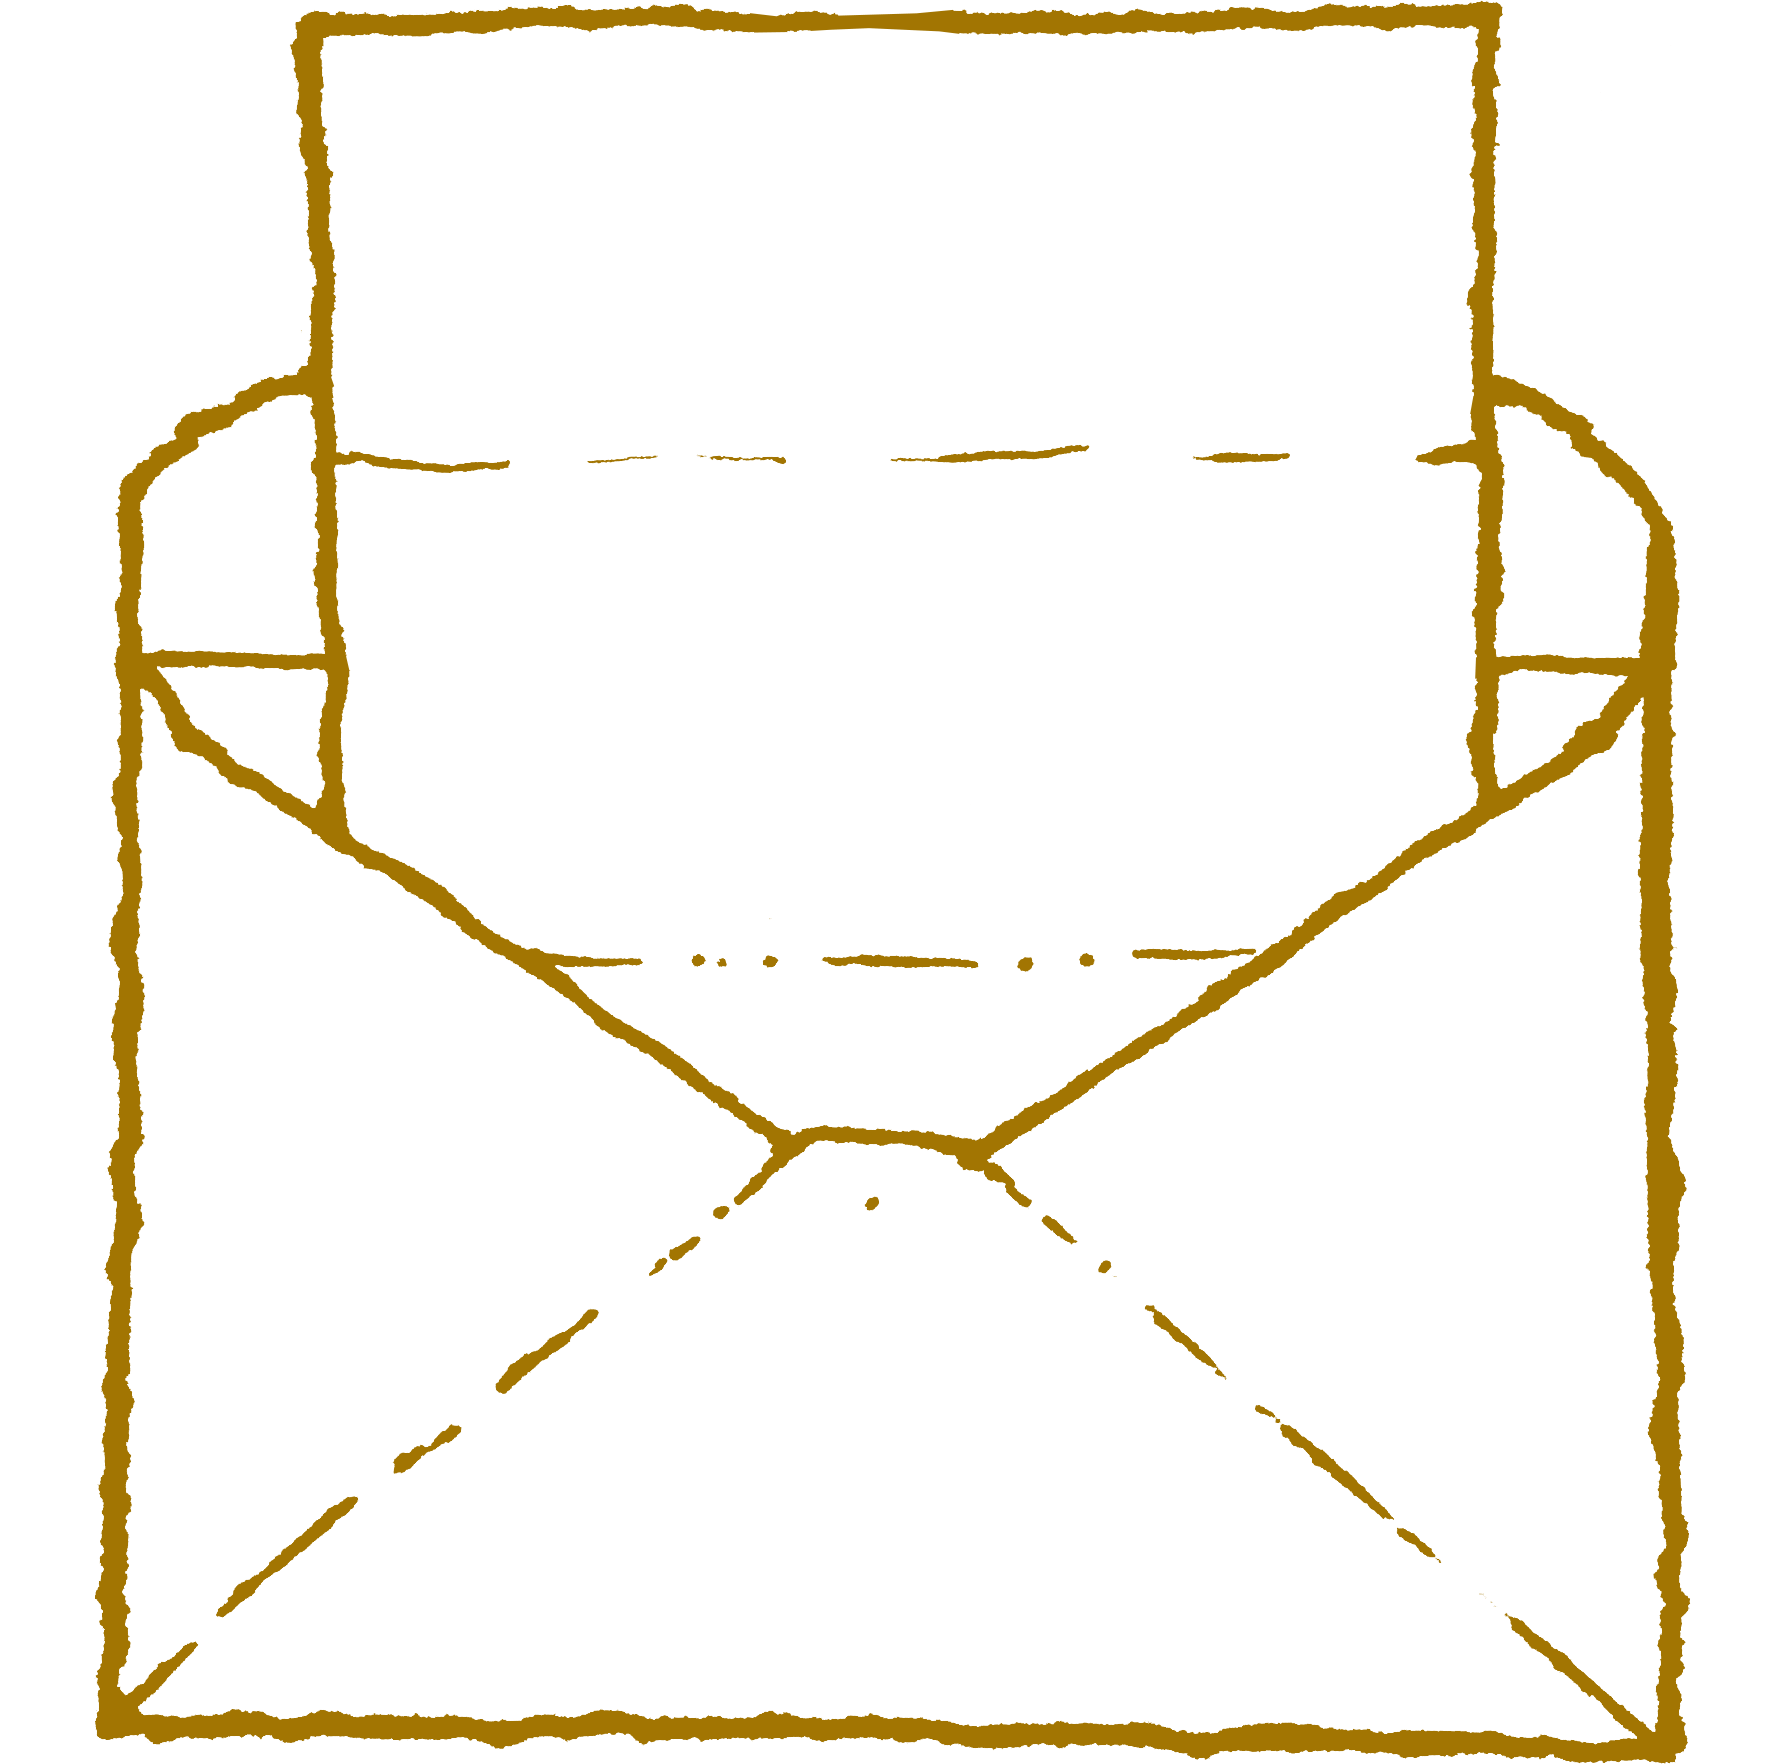
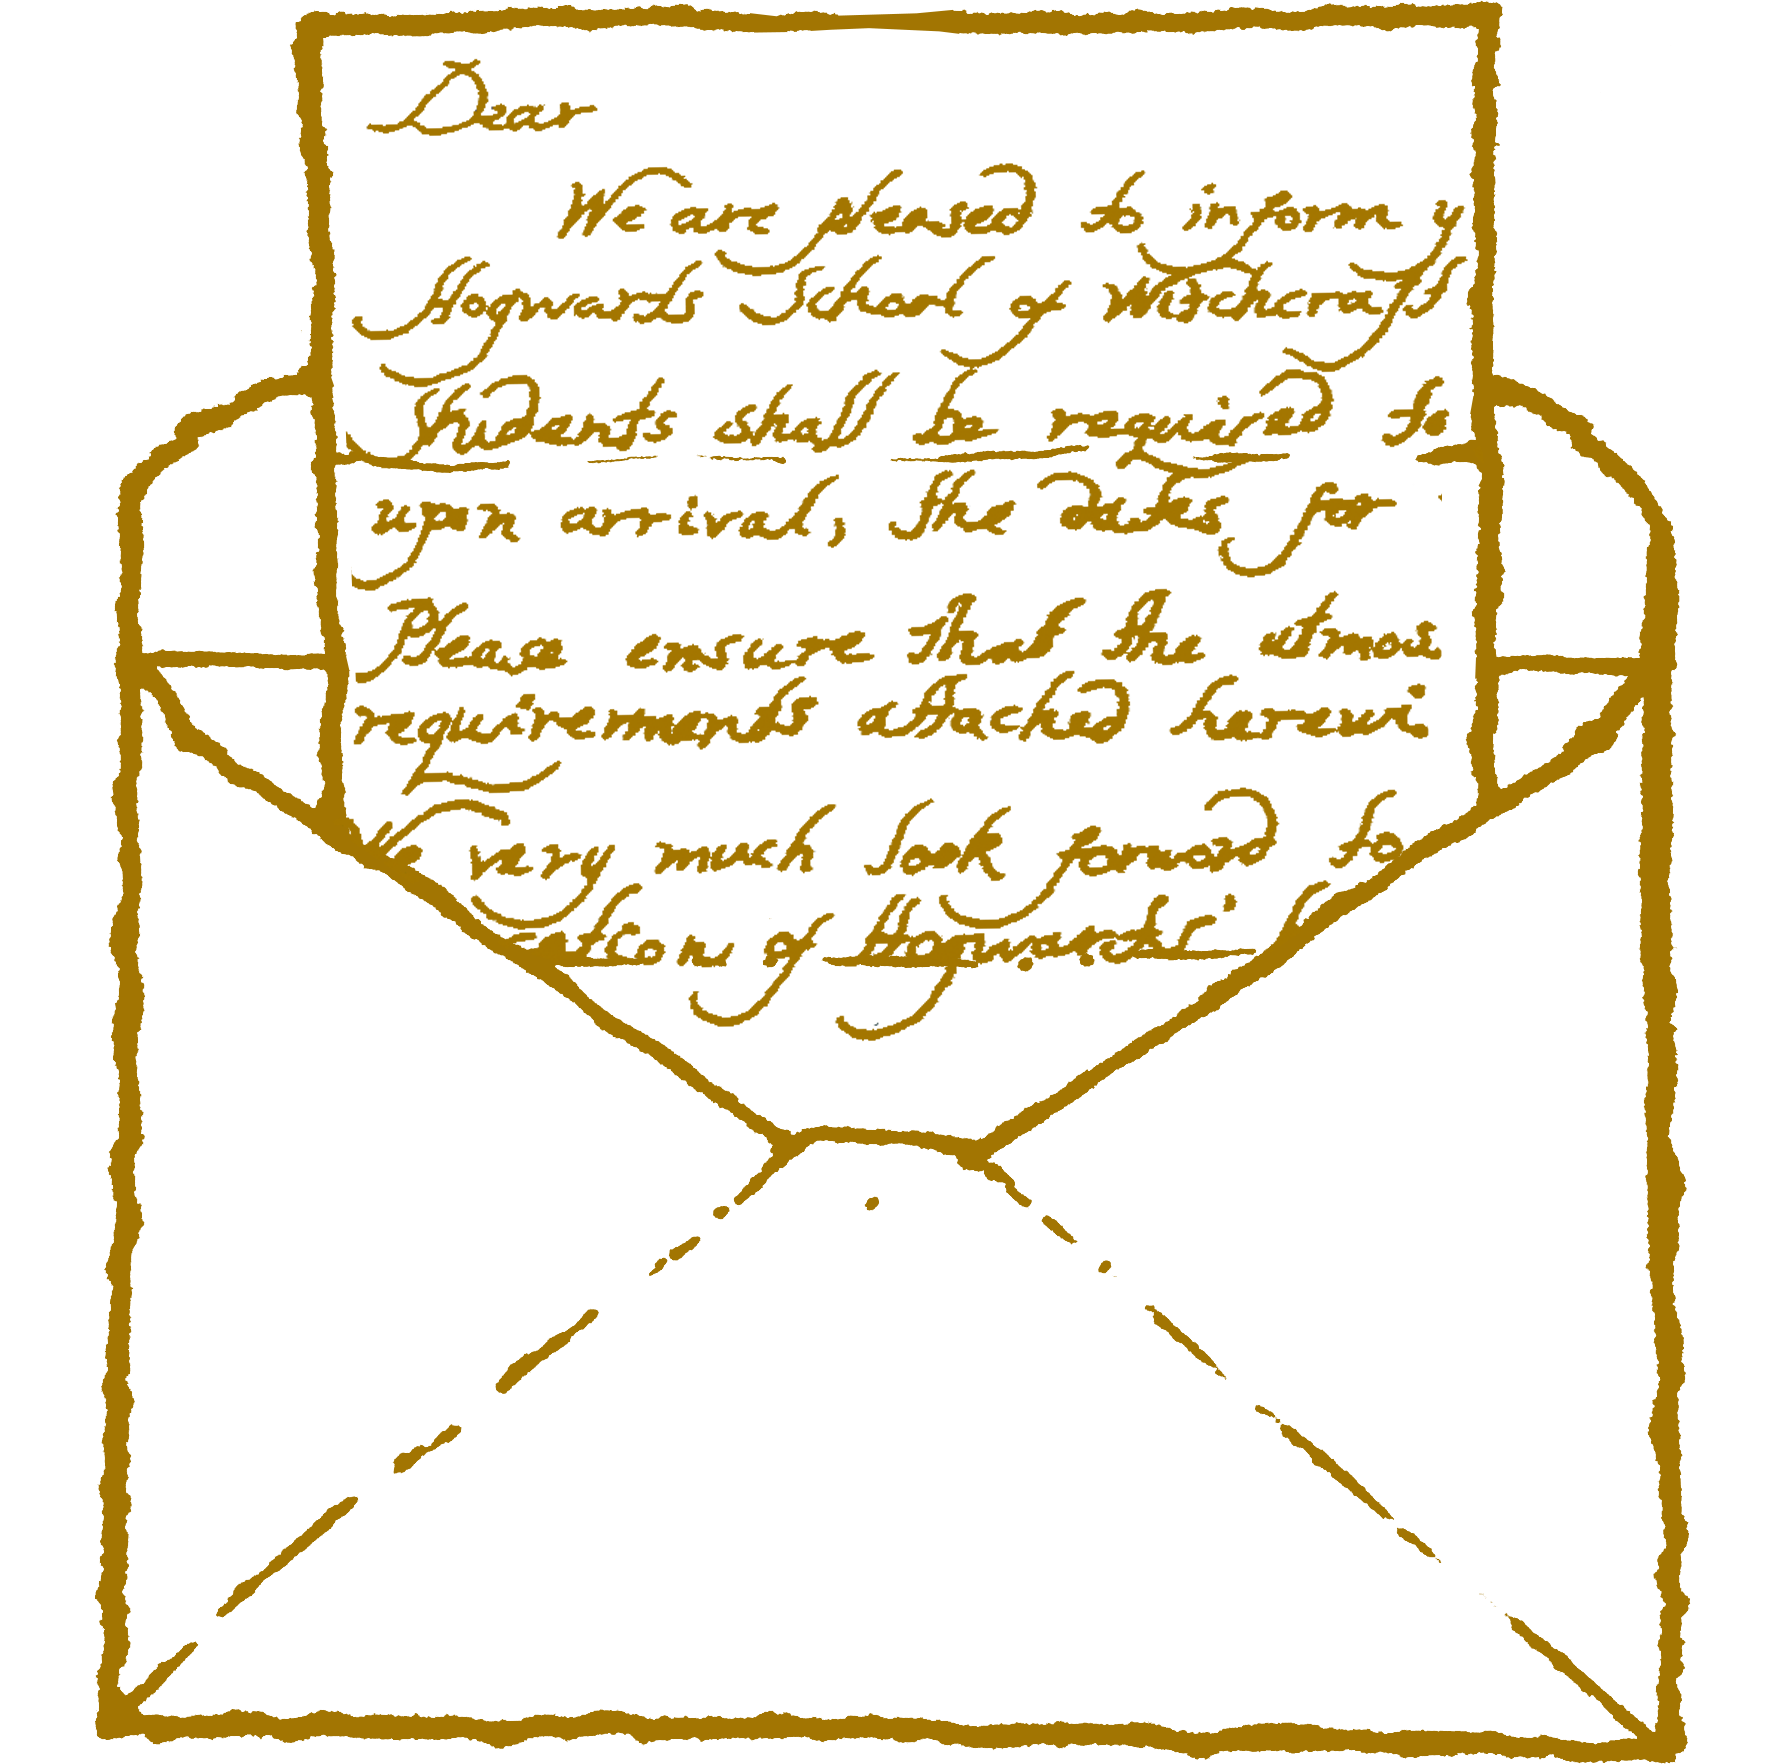
working on animations

diff --git a/angular/css/app.css b/angular/css/app.css
@@ -8,7 +8,12 @@
 
 * {
   font-family: 'Averia Serif Libre', cursive;
+  font-weight: 200;
   color: #a27502;
+}
+span {
+  margin: auto;
+  font-size: 4em;
 }
 .wholePageContainer {
   /*background-image: #F8F8F8;*/
@@ -20,7 +25,21 @@
   width: 100vw;
   display: flex;
 }
+.surveyPage {
+  display: flex;
+  flex-direction: column;
+  border: 1px solid #735c34;
+  width: 90vw;
+  height: 70vh;
+  overflow: hidden;
+  animation: fadeIn ease-in 1;
+  animation-fill-mode:forwards;
+  animation-duration:1s;
+}
 .fbButton {
+  animation: fadeIn ease-in 1;
+  animation-fill-mode: forwards;
+  animation-duration: 10s;
   margin: auto;
   z-index: 3;
   margin-bottom: 5vh;
@@ -47,21 +66,66 @@
   width: 100vw;
   height: 100vh;
 }
+.getStarted:hover {
+  cursor: pointer;
+}
+.decision {
+  margin: auto;
+  margin-top: 25vh;
+}
+.decision:hover {
+  cursor: pointer;
+}
+.answers.last-of-type {
+  background-color: red;
+}
+.paper {
+  margin: auto;
+  margin-left: 10vw;
+  width: 20vw;
+  height:auto;
+}
+.houseCrest {
+  margin: auto;
+  width: auto;
+  height: 150px;
+}
+.hatImg {
+  opacity: .15;
+  z-index: -1;
+  width: 30vw;
+  position: absolute;
+  height: auto;
+  left: 50%;
+  margin-left: -17vw;
+  top: 50%;
+  margin-top: -15vw;
+}
+.letterText {
+  text-align: left;
+  font-size: 1em;
+  animation: fadeIn ease-in 1;
+  animation-fill-mode:forwards;
+  animation-duration:5s;
+}
 .welcomeMessage {
   opacity: 0;
-  /*animation-fill-mode:forwards;
-  animation-duration: 4s;
-  animation: fadeIn ease-in 1;
-  animation-delay: 1s;*/
   text-align: center;
   z-index: 1;
-  /*color: #a27502;*/
-  color: #F8F8F8;
   margin: auto;
   margin-top: 7vh;
-  letter-spacing: 4px;
+  letter-spacing: 7px;
   margin-bottom: 10vh;
   font-family: 'Averia Serif Libre', cursive;
+}
+.closed:hover + .welcomeMessage {
+  animation: fadeIn ease-in 1;
+  animation-duration: 3s;
+  animation-fill-mode: both;
+  color: #49443b;
+}
+fbButton {
+  border: 1px solid #735c34;
 }
 .welcomeLetterDiv {
   display: flex;
@@ -70,14 +134,25 @@
   width: 100vw;
   height: 100%;
 }
-.closed:hover + .welcomeMessage {
-  animation: fadeIn ease-in 1;
-  animation-duration: 3s;
-  animation-fill-mode: forwards;
-  color: #a27502;
+.mainHeader {
+  color: #49443b;
 }
-.welcomeMessage:hover {
+.open {
+  animation: fadeIn ease-in 1;
+  position: absolute;
+  width: 33vw;
+  height: auto;
+  left: 50%;
+  margin-left: -16.5vw;
+  top: 50%;
+  margin-top: -16.5vw;
   cursor: pointer;
+  /*animation: engorgio ease-in 1;*/
+  animation-fill-mode:forwards;
+  animation-duration:.8s;
+}
+h3 {
+  color: #49443b;
 }
 .splashContainer {
   display: flex;
@@ -88,34 +163,18 @@
 }
 .closed {
   position: absolute;
-  width: 50vw;
+  width: 30vw;
   height: auto;
   left: 50%;
-  margin-left: -25vw;
+  margin-left: -15vw;
   top: 50%;
   transition: all 1s ease-in-out;
-  margin-top: -25vw;
-}
-.open {
-  position: absolute;
-  width: 55vw;
-  height: auto;
-  left: 50%;
-  margin-left: -27.5vw;
-  top: 50%;
-  margin-top: -27.5vw;
+  margin-top: -15vw;
 }
 .fadeIn {
   animation: fadeIn ease-in 1;
   animation-fill-mode:forwards;
   animation-duration:2s;
-}
-.open {
-  cursor: pointer;
-  animation: engorgio ease-in 1;
-  /*animation: fadeIn ease-in 1;*/
-  animation-fill-mode:forwards;
-  animation-duration:.8s;
 }
 .closed:hover {
   cursor: pointer;
@@ -123,7 +182,10 @@
   animation: wingardiumLeviosa 1.7s infinite;
 }
 .sortingResults {
-  border: 1px solid black;
+  height: 100vh;
+  margin: auto;
+  display: flex;
+  flex-direction: column;
 }
 h3 {
   text-align: center;
@@ -157,14 +219,4 @@ p:hover {
 }*/
 .ng-scope {
   margin: auto;
-}
-.surveyPage {
-  /*background-color: white;*/
-  border: 2px solid #434343;
-  width: 90vw;
-  height: 70vh;
-  overflow: hidden;
-  animation: fadeIn ease-in 1;
-  animation-fill-mode:forwards;
-  animation-duration:1s;
 }

diff --git a/angular/partials/splash.html b/angular/partials/splash.html
@@ -1,12 +1,20 @@
 <div ng-controller='splashController'>
   <div class='splashContainer fadeIn'>
     <div class='envelopes'>
-      <img class='closed' src="../images/letterClosed.png">
+      <img class='closed' src="../images/letterClosed.png" ng-click='loginAnimation()'>
       <h2 class='welcomeMessage'>The Wizarding World awaits you...</h2>
       <div class='welcomeLetterDiv fadeIn' ng-show='openEnvelope'>
-        <a href="/#/1"><img class='open' src="../images/letterOpen.png"></a>
-        <p>Welcome to Hogwarts, {{user}}</p>
-        <a href='/#/1'>Now we need to sort you into your house...</a>
+        <div class='paper'>
+          <a href="/#/1"><img class='open' src="../images/letterOpen.png"></a>
+          <p class='letterText mainHeader'>Hogwarts School of Witchcraft and Wizardry</p>
+          <p class='letterText'>Headmaster: Albus Dumbledore (Order of Merlin, First Class, Grand Sorc., Chf. Warlock, Supreme Mugwump, International Confed. of Wizards)</p>
+          <p class='letterText'>Dear {{user}},</p>
+          <p class='letterText'>We are pleased to inform you that you have been accepted at Hogwarts School of Witchcraft and Wizardry. We await your owl by no later than July 31.
+          Yours sincerely,</p>
+          <p class='letterText'>Minerva McGonagall</p>
+          <p class='letterText'>Deputy Headmistress</p>
+          <a href="/#/1"><p class='letterText getStarted mainHeader'>Get started...</p></a>
+        </div>
       </div>
       <button class='fbButton' ng-click="authenticate('facebook'); loginAnimation()" ng-show='fbShow'>Sign in with Facebook</button>
     </div>

diff --git a/angular/partials/survey1.html b/angular/partials/survey1.html
@@ -1,16 +1,22 @@
-<div class='surveyPage' ng-controller='surveyController'>
+  <div class='surveyPage' ng-controller='surveyController'>
   <div class='theQuiz' ng-repeat='question in survey'>
-      <h3  class='{{question.questionId}}' for="surveyOptions">{{question.question}}</h3>
+      <h3  class='{{question.questionId}} question' for="surveyOptions">{{question.question}}</h3>
+      <hr class='{{question.questionId}}'>
       <div class='{{question.questionId}}' ng-repeat='answer in question.answers' ng-click='scrollAnswers(question.questionId)'>
         <p class='answers' ng-click='answerSelect(answer)'>{{answer.option}}</p>
       </div>
   </div>
-</div>
-<button type="button" ng-click="postSurveyResults(getSorted()); getDomHouse(getSorted())">Get Sorted!!!</button>
+  <div ng-show='sortingButton' class='decision' ng-click="postSurveyResults(getSorted()); sortingResultsShow(); getDomHouse(getSorted())">
+    <img class='hatImg' src="../images/sortingHat.png">
+    <p>The Sorting Hat has decided...</p>
+  </div>
+  <div class='sortingResults' ng-show='sortingResults'>
+    <span>{{results.name}}</span>
+    <p>{{results.quote}}</p>
+    <p>Traits:</p>
+    <p>{{results.traits}}</p>
+    <img src="{{results.imageUrl}}" class='houseCrest'>
+    <button class='fbButton' type="button" ng-click="facebookShareFunc()">Share on facebook</button>
+  </div>
 
-<div class='sortingResults'>
-  <p>{{results.name}}</p>
-  <p>{{results.quote}}</p>
-  <img src="{{results.imageUrl}}" style='width: 100px; height: auto'>
-  <button type="button" ng-click="facebookShareFunc()">Share!!!!!</button>
 </div>

diff --git a/angular/js/controllers/controllers.js b/angular/js/controllers/controllers.js
@@ -11,7 +11,8 @@ $scope.loginAnimation = function() {
   $scope.openEnvelope = true;
   $scope.fbShow = false;
 
-  $(".closed").fadeOut();
+  $(".closed").fadeOut('slow');
+  $(".welcomeMessage").fadeOut('slow');
   survey.sortingHat.user_name = results.data.body.message.firstname;
   survey.sortingHat.zfbId = results.data.body.message.fb_id;
 }
@@ -58,6 +59,7 @@ apicalls.getAll().then(function(results){
 //This is our controller for our survey
 app.controller('surveyController', ['$scope', 'survey', '$location', '$auth', 'apicalls', '$http', function($scope, survey, $location, $auth, apicalls, $http) {
 
+  
   $scope.getDomHouse = function(rest) {
     $http.get('https://mighty-refuge-77675.herokuapp.com/api/houses/' + rest.dominantHouse).then(function(results) {
       console.log(results);
@@ -69,9 +71,17 @@ app.controller('surveyController', ['$scope', 'survey', '$location', '$auth', 'a
     $scope.scrollAnswers = function(arg) {
       $("." + arg).fadeOut();
       $("." +( arg + 1)).fadeOut()
+      $('.hardReturn').fadeOut();
       $("." +( arg + 1)).fadeIn('slow')
+      $('.decision').fadeIn('slow');
     }
 
+    $scope.sortingResults = false;
+    $scope.sortingButton = true;
+    $scope.sortingResultsShow = function() {
+      $scope.sortingResults = true;
+      $scope.sortingButton = false;
+    }
 
     $scope.facebookShareFunc = function() {
 

diff --git a/angular/index.html b/angular/index.html
@@ -3,7 +3,7 @@
   <head>
     <meta charset="utf-8">
     <link rel="stylesheet" href="https://cdnjs.cloudflare.com/ajax/libs/normalize/3.0.3/normalize.min.css">
-    <link href='https://fonts.googleapis.com/css?family=Averia+Serif+Libre:400,700,300' rel='stylesheet' type='text/css'>
+    <link href='https://fonts.googleapis.com/css?family=Averia+Serif+Libre:200,400,700,300' rel='stylesheet' type='text/css'>
     <link rel="stylesheet" href="css/app.css">
     <script type="text/javascript" src='https://code.jquery.com/jquery-2.2.1.min.js'></script>
     <script src="https://ajax.googleapis.com/ajax/libs/angularjs/1.4.5/angular.min.js"></script>
